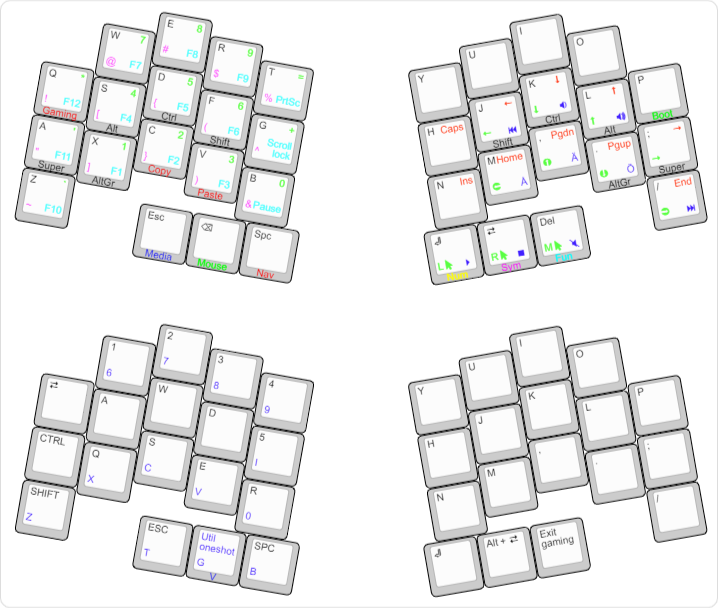
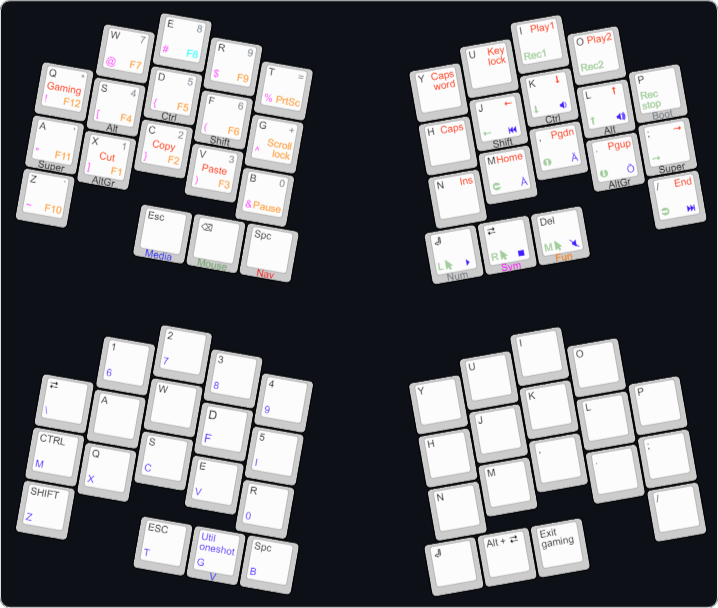
Update keymap for gaming layer

diff --git a/fat_cruiser/v1/qmk/keymaps/default/keymap.c b/fat_cruiser/v1/qmk/keymaps/default/keymap.c
@@ -128,7 +128,7 @@ const uint16_t PROGMEM keymaps[][MATRIX_ROWS][MATRIX_COLS] = {
     ),
     [_GAMING_UTIL] = LAYOUT_ortho_36(
         KC_BSLS, KC_6, KC_7, KC_8, KC_9, /*,*/ KC_NO, KC_NO, KC_NO, KC_NO, KC_NO,
-        KC_NO, KC_4, KC_5, KC_F, KC_I, /*,*/ KC_NO, KC_NO, KC_NO, KC_NO, KC_NO,
+        KC_M, KC_4, KC_5, KC_F, KC_I, /*,*/ KC_NO, KC_NO, KC_NO, KC_NO, KC_NO,
         KC_Z,  KC_X, KC_C, KC_V, KC_0, /*,*/ KC_NO, KC_NO, KC_NO, KC_NO, KC_NO,
         KC_T, KC_G, KC_B, /*,*/ KC_NO, KC_NO, KC_NO
     ),

diff --git a/fat_cruiser/v1/qmk/config.h b/fat_cruiser/v1/qmk/config.h
@@ -22,7 +22,7 @@
 
 // Remote desktop protocol problems, didn't help
 #undef TAP_CODE_DELAY
-#define TAP_CODE_DELAY 0
+#define TAP_CODE_DELAY 10
 
 // Delay before sending tap, allows for tap-hold or tap-dance.
 #undef TAPPING_TERM
